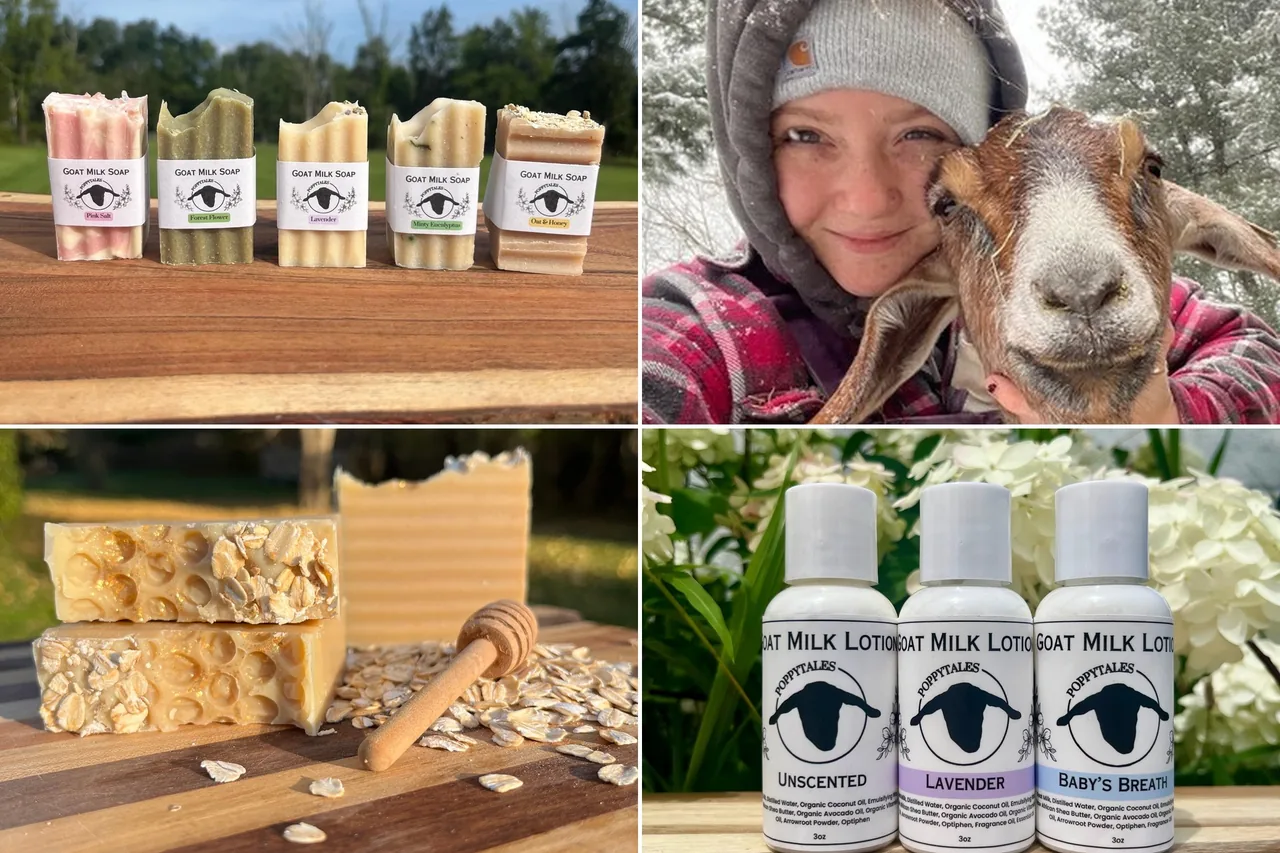
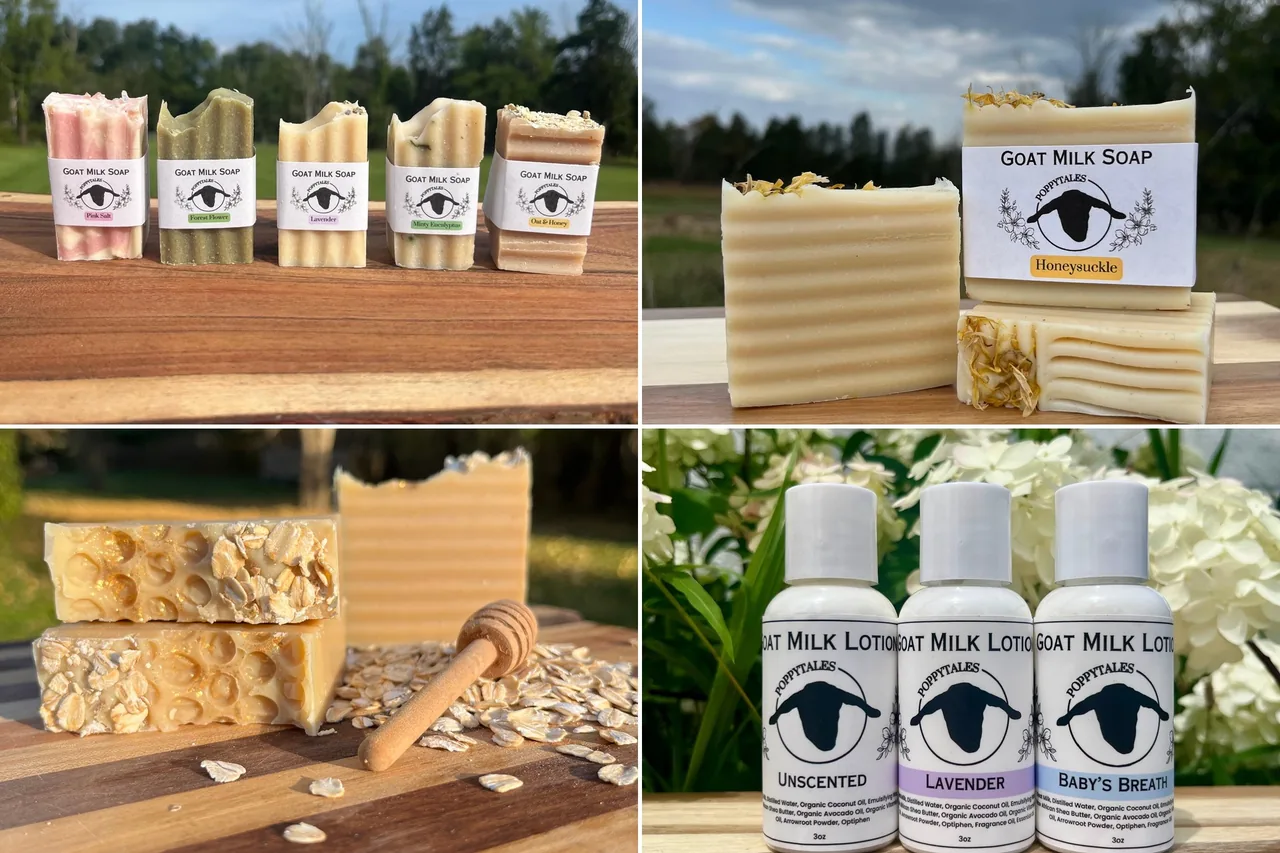
Publish preview poppytalesfarm

Changed region(s): [[0.5, 0.0, 1.0, 0.5182]]

diff --git a/poppytalesfarm/index.html b/poppytalesfarm/index.html
@@ -48,7 +48,7 @@
 
   <section class="hero">
     <img class="hero-img" src="img/hero.webp" width="1280" height="853"
-         alt="Goat milk soap bars, Molly with her goat, and goat milk lotion from PoppyTales Farm" fetchpriority="high">
+         alt="Goat milk soap bars and goat milk lotion from PoppyTales Farm" fetchpriority="high">
     <div class="hero-overlay" aria-hidden="true"></div>
     <div class="container hero-content">
       <p class="eyebrow eyebrow--light">Goat farmer &amp; soap maker &middot; Perkiomenville, PA</p>
